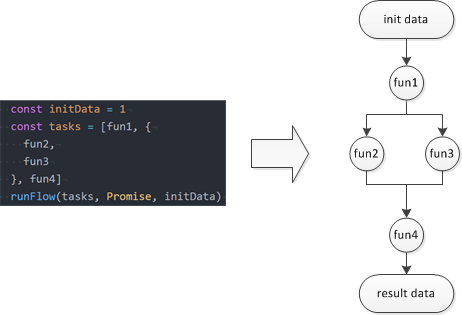
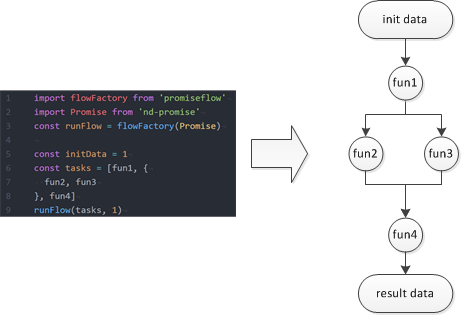
update readme

diff --git a/README.md b/README.md
@@ -16,8 +16,9 @@
 ![series](https://raw.githubusercontent.com/hcl1687/promiseflow/master/img/series.png)
 
 ```js
-import runFlow from '../src/index'
+import flowFactory from 'promiseflow'
 import Promise from 'nd-promise'
+const runFlow = flowFactory(Promise)
 
 const initData = 1
 const fun1 = function (data) {
@@ -33,7 +34,7 @@ const fun2 = function (data) {
   })
 }
 const arr = [fun1, fun2]
-runFlow(arr, Promise, initData).then(data => {
+runFlow(arr, initData).then(data => {
   // expect(data).to.be.equal(4)
   done()
 })
@@ -44,8 +45,9 @@ runFlow(arr, Promise, initData).then(data => {
 ![parallel](https://raw.githubusercontent.com/hcl1687/promiseflow/master/img/parallel.png)
 
 ```js
-import runFlow from '../src/index'
+import flowFactory from 'promiseflow'
 import Promise from 'nd-promise'
+const runFlow = flowFactory(Promise)
 
 const initData = 1
 const fun1 = function (data) {
@@ -69,7 +71,7 @@ const fun3 = function (data) {
   })
 }
 const obj = { fun1, fun2, fun3 }
-let promise = runFlow(obj, Promise, initData)
+let promise = runFlow(obj, initData)
 promise.then(data => {
   // expect(data.fun1).to.be.equal(2)
   // expect(data.fun2).to.be.equal(3)
@@ -83,8 +85,9 @@ promise.then(data => {
 ![series_parallel](https://raw.githubusercontent.com/hcl1687/promiseflow/master/img/series_parallel.png)
 
 ```js
-import runFlow from '../src/index'
+import flowFactory from 'promiseflow'
 import Promise from 'nd-promise'
+const runFlow = flowFactory(Promise)
 
 const initData = 1
 const fun1 = function (data) {
@@ -115,7 +118,7 @@ const fun4 = function (data) {
 const arr = [fun1, {
   fun2, fun3
 }, fun4]
-runFlow(arr, Promise, initData).then(data => {
+runFlow(arr, initData).then(data => {
   // expect(data).to.be.equal(9)
   // done()
 })
